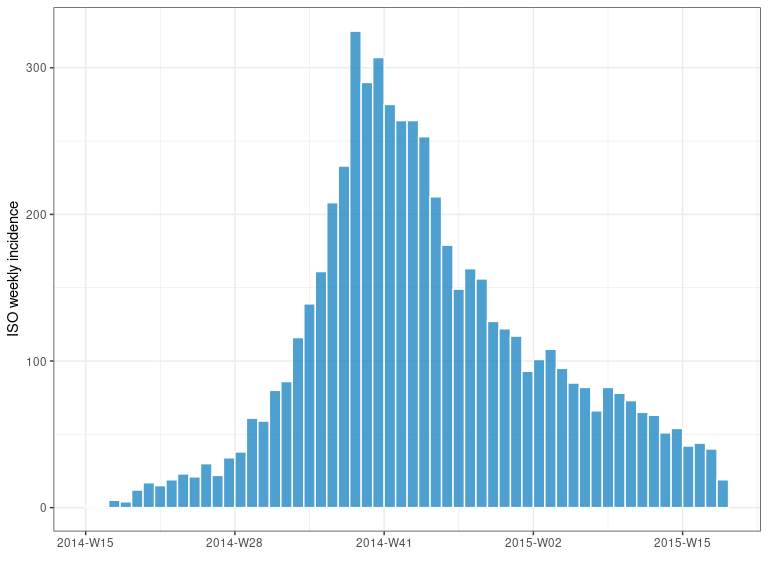
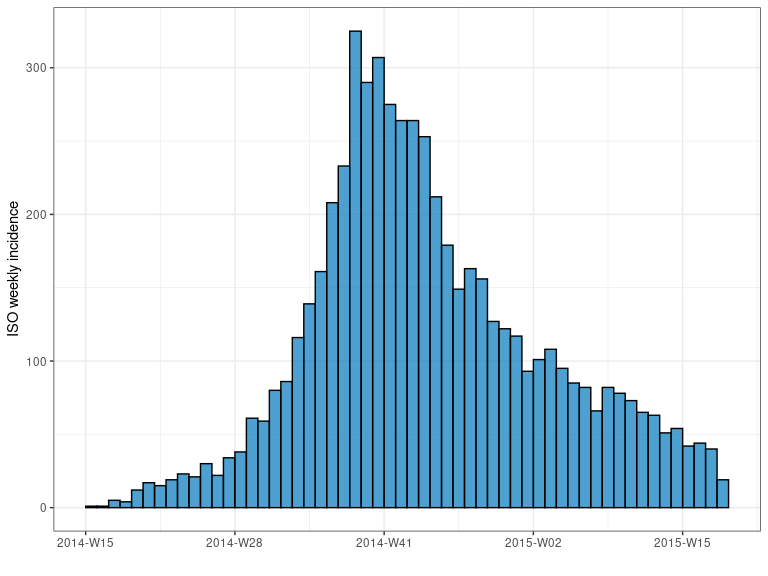
wip - plots

Changed region(s): [[0.0938, 0.0938, 0.9688, 0.9062]]

diff --git a/README.md b/README.md
@@ -148,7 +148,7 @@ summary(i_7)
 #> interval: 7 days
 #> cumulative: FALSE
 #> timespan: 386 days
-plot(i_7)
+plot(i_7, color = "black")
 ```
 
 ![](figs/incid7-1.png)<!-- -->
@@ -193,9 +193,7 @@ summary(i_7_sex)
 #>   <fct>  <int>
 #> 1 f       2934
 #> 2 m       2895
-plot(i_7_sex, stack = TRUE)
-#> The number of colors (1) did not match the number of groups (2).
-#> Using `col_pal` instead.
+plot(i_7_sex, stack = TRUE, color = "black")
 ```
 
 ![](figs/genderstack-1.png)<!-- -->
@@ -283,7 +281,7 @@ subsetting:
 ``` r
 i_7 %>% 
   filter(date_group >= as.Date("2015-01-01")) %>% 
-  plot(border = "white")
+  plot(color = "white")
 ```
 
 ![](figs/tail-1.png)<!-- -->
@@ -331,8 +329,6 @@ summary(i_7_outcome)
 #> 2 Recover  1963
 #> 3 <NA>     1302
 plot(i_7_outcome, stack = TRUE)
-#> The number of colors (1) did not match the number of groups (3).
-#> Using `col_pal` instead.
 ```
 
 ![](figs/i7outcome-1.png)<!-- -->
@@ -364,9 +360,7 @@ i_7_outcome_cum
 #>  9 2014-04-21 2014-W17 2014-W17 Recover     3
 #> 10 2014-04-28 2014-W18 2014-W18 <NA>        4
 #> # … with 158 more rows
-plot(i_7_outcome_cum, border = NA)
-#> The number of colors (1) did not match the number of groups (3).
-#> Using `col_pal` instead.
+plot(i_7_outcome_cum)
 ```
 
 ![](figs/i7outcome_cum-1.png)<!-- -->
